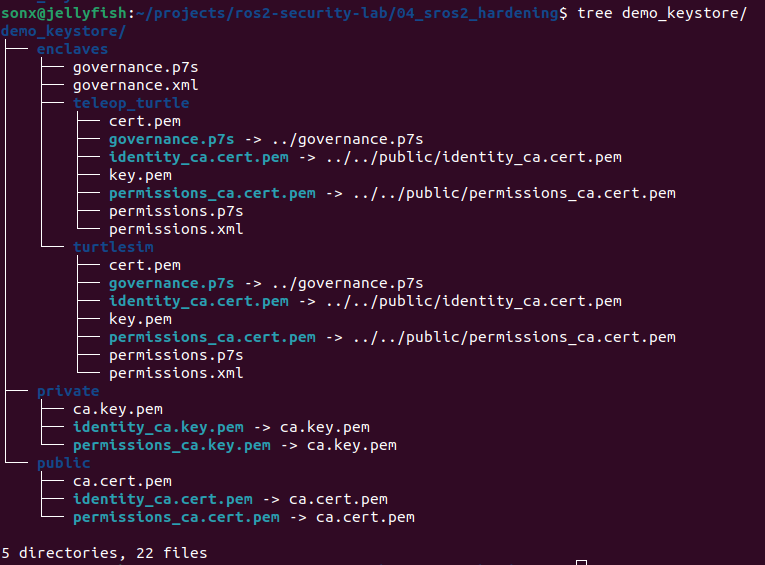
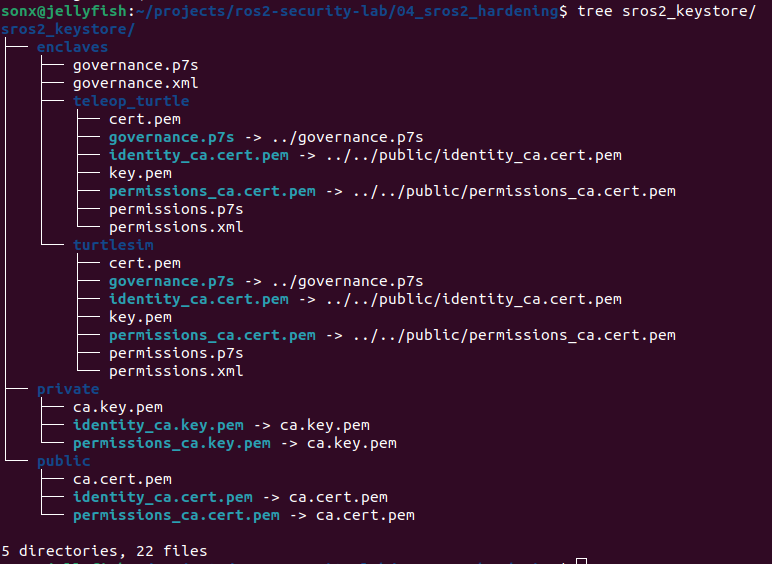
Add phase 4 SROS2 hardening validation

diff --git a/04_sros2_hardening/README.md b/04_sros2_hardening/README.md
@@ -24,22 +24,22 @@ sudo apt install ros-humble-sros2 -y
 ros2 security --help
 ```
 
-![alt text](image.png)
+![alt text](images/image.png)
 
 
 ### Create Keystore
 
 ```bash
-ros2 security create_keystore demo_keystore
+ros2 security create_keystore sros2_keystore
 ```
 
 
-![alt text](image-1.png)
+![alt text](images/image-1.png)
 
 ### Set Environment Variables
 
 ```bash
-export ROS_SECURITY_KEYSTORE=$HOME/projects/ros2-security-lab/04_sros2_hardening/demo_keystore
+export ROS_SECURITY_KEYSTORE=$HOME/projects/ros2-security-lab/04_sros2_hardening/sros2_keystore
 ```
 
 ### Create Security Enclaves
@@ -49,25 +49,25 @@ An enclave is like a security identity/context for a ROS2 process. ROS2’s secu
 Create enclaves for legitimate nodes:
 
 ```bash
-ros2 security create_enclave demo_keystore /turtlesim
-ros2 security create_enclave demo_keystore /teleop_turtle
+ros2 security create_key sros2_keystore /turtlesim
+ros2 security create_key sros2_keystore /teleop_turtle
 ```
 
-![alt text](image-2.png)
+![alt text](images/image-2.png)
 
 ### Enable Security Environment
 
 These environment variables should be set everywhere you run protected nodes:
 
 ```bash
-export ROS_SECURITY_KEYSTORE=$HOME/projects/ros2-security-lab/04_sros2_hardening/demo_keystore
+export ROS_SECURITY_KEYSTORE=$HOME/projects/ros2-security-lab/04_sros2_hardening/sros2_keystore
 export ROS_SECURITY_ENABLE=true
-export ROS_SECURITY_STRATEGY=enforce
+export ROS_SECURITY_STRATEGY=Enforce
 ```
 
 - `ROS_SECURITY_KEYSTORE`: where security files live
 - `ROS_SECURITY_ENABLE=true`: turn security on
-- `ROS_SECURITY_STRATEGY=enforce`: fail if security config is missing/bad
+- `ROS_SECURITY_STRATEGY=Enforce`: fail if security config is missing/bad
 
 ### Run Secure Turtlesim
 
@@ -76,12 +76,11 @@ Open Terminal 1:
 ```bash
 source /opt/ros/humble/setup.bash
 
-export ROS_SECURITY_KEYSTORE=$HOME/projects/ros2-security-lab/04_sros2_hardening/demo_keystore
+export ROS_SECURITY_KEYSTORE=$HOME/projects/ros2-security-lab/04_sros2_hardening/sros2_keystore
 export ROS_SECURITY_ENABLE=true
-export ROS_SECURITY_STRATEGY=enforce
-export ROS_SECURITY_ENCLAVE=/turtlesim
+export ROS_SECURITY_STRATEGY=Enforce
 
-ros2 run turtlesim turtlesim_node
+ros2 run turtlesim turtlesim_node --ros-args --enclave /turtlesim
 ```
 
 ### Run Secure Teleop
@@ -91,20 +90,93 @@ Open Terminal 2:
 ```bash
 source /opt/ros/humble/setup.bash
 
-export ROS_SECURITY_KEYSTORE=$HOME/projects/ros2-security-lab/04_sros2_hardening/demo_keystore
+export ROS_SECURITY_KEYSTORE=$HOME/projects/ros2-security-lab/04_sros2_hardening/sros2_keystore
 export ROS_SECURITY_ENABLE=true
-export ROS_SECURITY_STRATEGY=enforce
-export ROS_SECURITY_ENCLAVE=/teleop_turtle
+export ROS_SECURITY_STRATEGY=Enforce
 
-ros2 run turtlesim turtle_teleop_key
+ros2 run turtlesim turtle_teleop_key --ros-args --enclave /teleop_turtle
+```
+
+Try moving the turtle using the arrow keys. The legitimate `teleop_turtle` node still controls the simulator normally.
+
+Now, open Terminal 3 to run the attacker node:
+
+```bash
+ros2 run cmd_vel_attacker attacker
+```
+
+The attacker node can no longer control the turtle because SROS2 security is enabled and the attacker has no valid security enclave.
+
+![alt text](images/video-1.mp4)
+
+### Test Attacker WITH Security but No Key
+
+```bash
+export ROS_SECURITY_KEYSTORE=$HOME/projects/ros2-security-lab/04_sros2_hardening/sros2_keystore
+export ROS_SECURITY_ENABLE=true
+export ROS_SECURITY_STRATEGY=Enforce
+
+ros2 run cmd_vel_attacker attacker --ros-args --enclave /cmd_vel_attacker
+```
+
+### Error Output
+
+```
+SECURITY ERROR: directory '/home/sonx/projects/ros2-security-lab/04_sros2_hardening/sros2_keystore/enclaves/cmd_vel_attacker' does not exist., at ./src/rcl/security.c:202
+```
+
+### Create Attacker Key (Authentication vs. Authorization)
+
+Let's create a key for the attacker to demonstrate that just being authenticated to the ROS2 network doesn't mean they are authorized to perform actions (if access control policies are properly configured).
+
+```bash
+ros2 security create_key sros2_keystore /cmd_vel_attacker
+ros2 security list_keys sros2_keystore
+```
+
+Result: The `/cmd_vel_attacker` is added to the keystore.
+
+```text
+/turtlesim
+/teleop_turtle
+/cmd_vel_attacker
 ```
 
 
+```bash
+ros2 run cmd_vel_attacker attacker --ros-args --enclave /cmd_vel_attacker
+```
 
+![alt text](video-2.mp4)
 
+Because we haven't configured strict authorization policies yet (DDS-Security permissions), the attacker can now control the turtle simply by having a valid key!
 
+### Try with a Different Enclave
 
+```bash
+ros2 run cmd_vel_attacker attacker --ros-args --enclave /teleop_turtle
+```
 
+The attacker successfully publishes movement commands to `/turtle1/cmd_vel` by masquerading as the legitimate teleop node.
 
+**Finding:** Enclave identity matters. If an attacker can run using a trusted enclave such as `/teleop_turtle`, they inherit that enclave's permissions. Protecting the keystore files is critical.
 
+## Solutions and Recommendations
 
+### Protect Keystore Files
+
+The SROS2 keystore contains private keys and permissions for each enclave. These files must be protected with strict filesystem permissions. Only the user/service account running the legitimate ROS2 node should be able to read that node's enclave directory.
+
+### Use Least-Privilege Permissions (Access Control)
+
+The `/teleop_turtle` enclave should only be allowed to publish the minimum required topics using DDS-Security permission rules (e.g., `permissions.xml`):
+
+- **Allow publish:** `/turtle1/cmd_vel`
+- **Deny subscribe:** `/turtle1/pose` (unless needed)
+- **Deny access:** Unrelated services/actions
+
+### Add Application-Level Safety Checks
+
+- Reject commands above safe speed limits
+- Require command source validation
+- Implement watchdog timeouts (stop moving if legimate commands stop arriving)